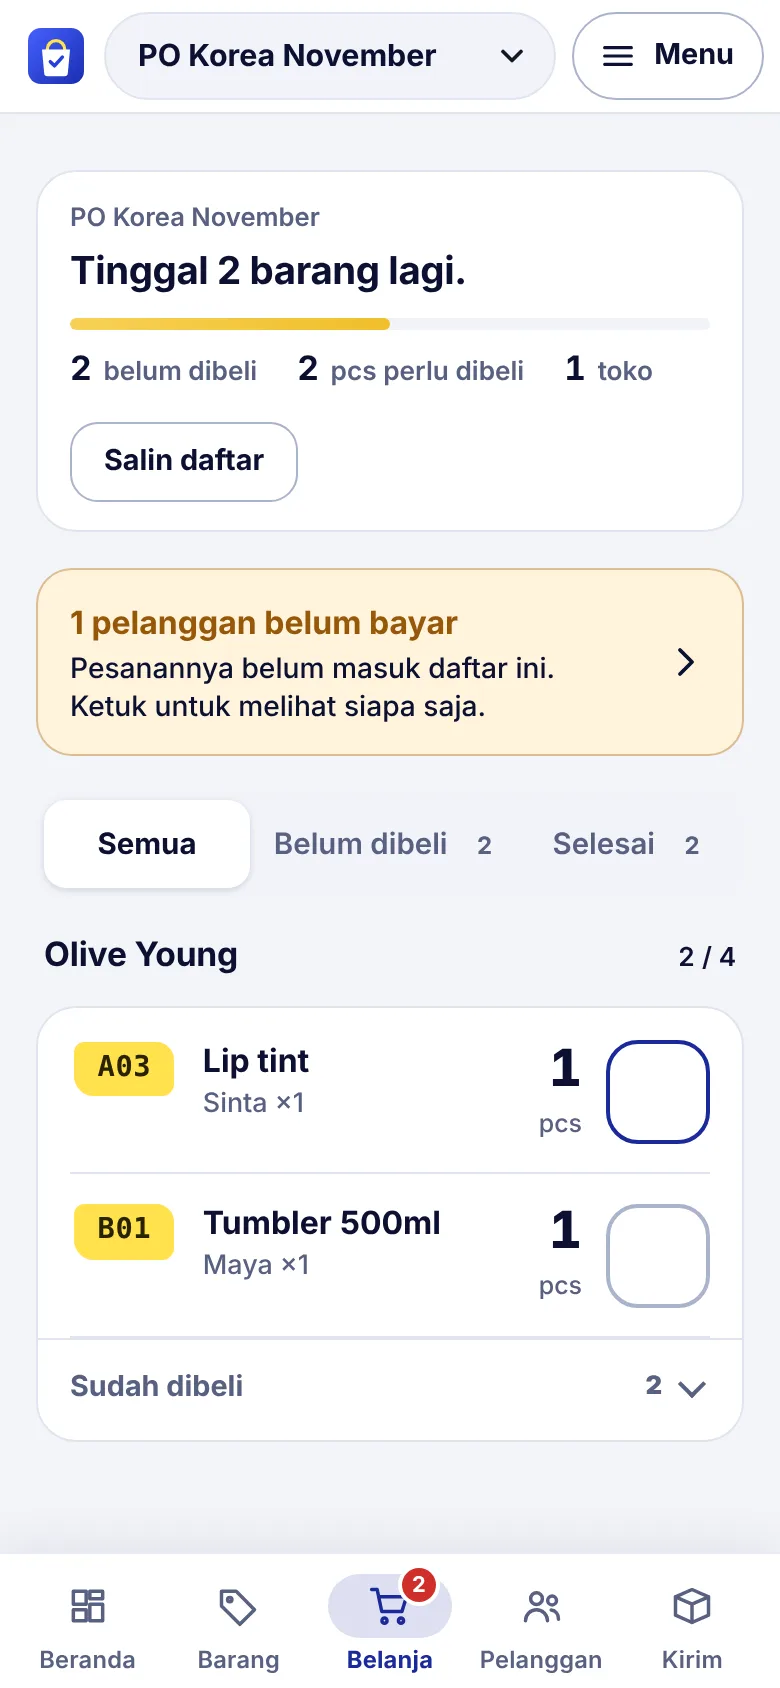
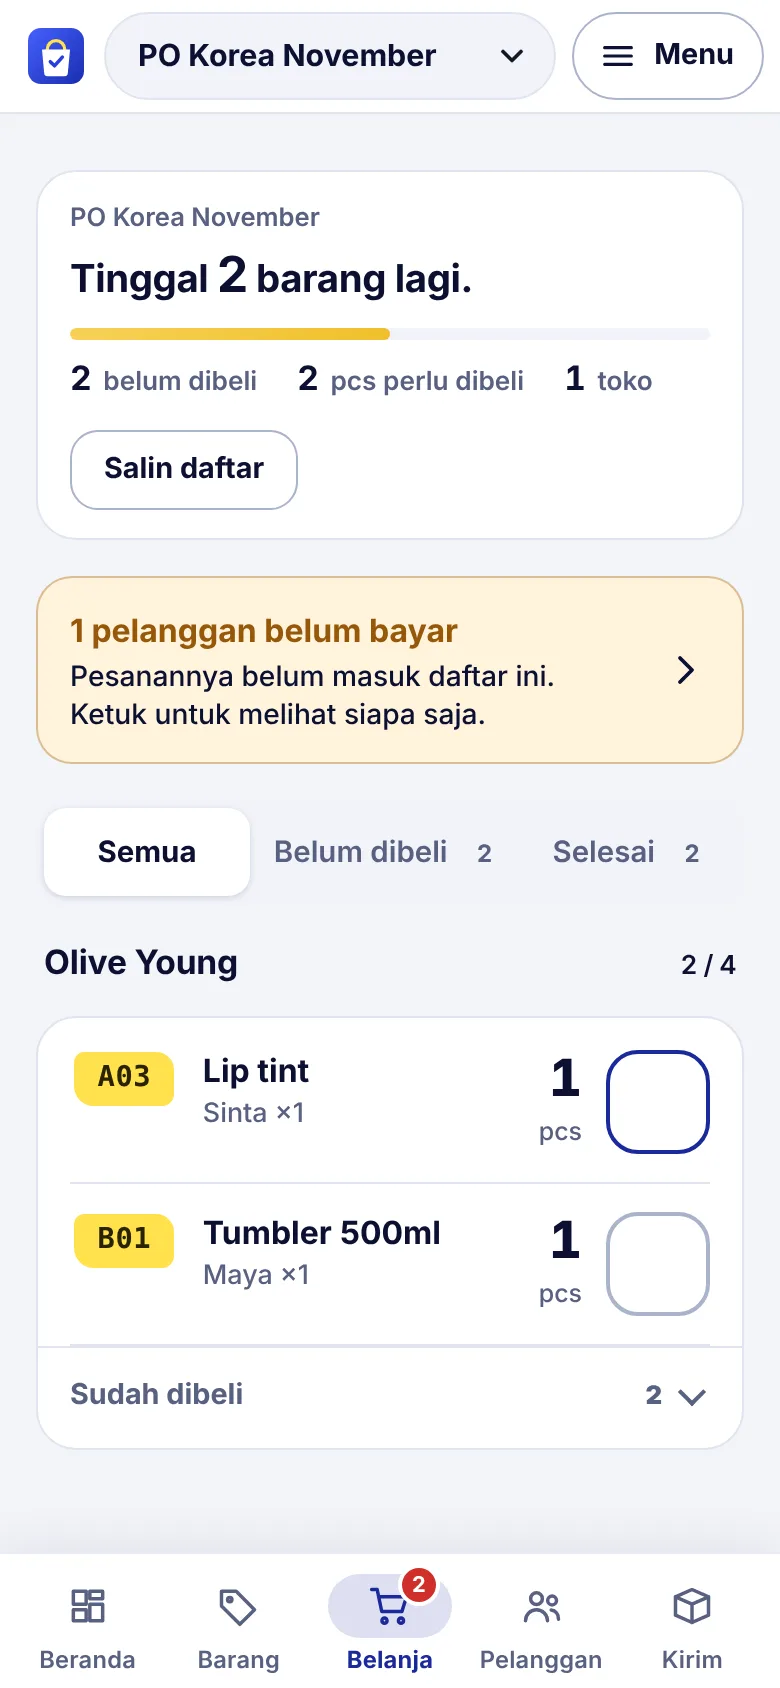
Tampilan desktop/tablet/HP: header selaras dengan isi, satu keluarga huruf di dalam aplikasi, angka untung lebih tenang
Claude-Session: https://claude.ai/code/session_01Umsz8aQAUh9Fd5wyBKCHqJ

diff --git a/app.html b/app.html
@@ -760,6 +760,29 @@ header.top .menu-btn:active{background:var(--sunken)}
 .cn2{font-size:.8rem;font-weight:700;background:var(--sunken);color:var(--muted);border-radius:99px;padding:2px 9px;margin-left:6px;vertical-align:middle}
 .morerow{color:var(--accent);font-weight:700;min-height:48px}
 @media(max-width:899px){header.top .brand .bn{display:none}}
+
+/* desktop dan tablet: header selaras dengan isi */
+@media(min-width:900px){
+.top{padding:8px 0}
+.top .in{max-width:1320px;padding:0 24px;gap:14px}
+.top .in .brand{width:210px;flex:none}
+.top .in select,.top .in .tripsel{max-width:380px}
+}
+
+/* satu keluarga huruf: sans untuk semua, tanpa serif */
+.lux-h,.lux-h .num{font-family:var(--f-body)!important;font-weight:700;letter-spacing:-.022em;line-height:1.15;font-size:clamp(1.55rem,6vw,1.95rem);max-width:18em}
+.row .lead-n{font-family:var(--f-body);font-weight:700}
+.lux-st dd,.lux-st dd .num{font-family:var(--f-body)}
+.gain-v{font-size:clamp(2rem,9vw,2.6rem);color:var(--ink)}
+@media(min-width:900px){.lux-h{font-size:2.15rem}.gain-v{font-size:2.6rem}}
+nav.tabs .deskout{color:var(--muted)}
+nav.tabs .deskout:hover{color:var(--red)}
+
+h1,h2,h3,.sh,.nota .who,.nota .big,.profit .v,.pr-card .pi,.lux-st dd,.groups .sec>.label,.modal h2,.sheet h2{font-family:var(--f-body)!important;font-weight:700;letter-spacing:-.012em}
+.auth-h{font-family:var(--serif)!important;font-weight:400!important;letter-spacing:0!important}
+.pr-card .pi{font-size:1.1rem}
+.nota .big{font-weight:800}
+@media(min-width:600px) and (max-width:899px){nav.tabs .in{max-width:680px}}
 </style>
 </head>
 <body>
